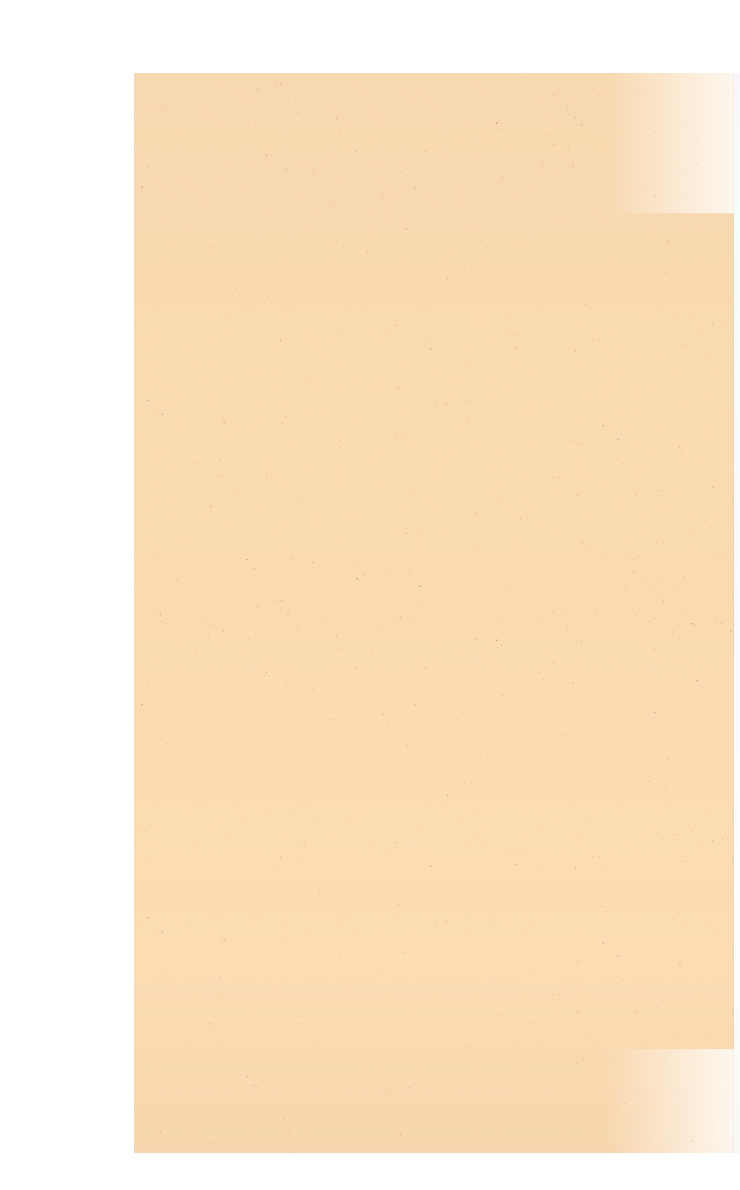
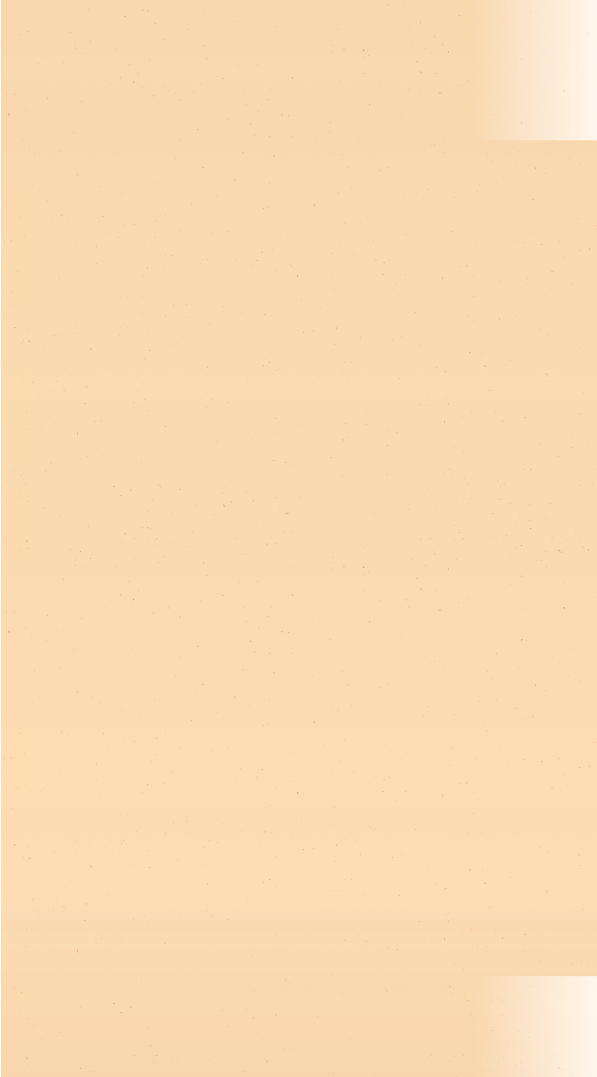
fortschr5itt grafisches anzeigen des spielbretts

Changed region(s): [[0.0, 0.0, 0.995, 1.0], [0.8744, 0.1226, 1.0, 0.9192]]

diff --git a/client/src/main/resources/style.css b/client/src/main/resources/style.css
@@ -90,3 +90,11 @@
     -fx-background-size: 720 480;
     -fx-border-width:5;
 }
+
+
+#mainland {
+    -fx-background-image: url("back.png");
+    -fx-background-repeat: stretch;
+    -fx-background-size: 458 804;
+    -fx-background-position: center center;
+}

diff --git a/client/src/main/java/board/view/BoardViewImplFx.java b/client/src/main/java/board/view/BoardViewImplFx.java
@@ -35,9 +35,17 @@ public class BoardViewImplFx {
   public void addHouse(int i){
     Image image = new Image("haus.png");
     ImageView house = new ImageView();
-    house.setFitHeight(50);
-    house.setFitWidth(50);
+    house.setFitHeight(120);
+    house.setFitWidth(250);
     house.setImage(image);
     houses.add(house, 0, i );
+  }
+
+  public void setBoardPresenter(BoardPresenter boardPresenter) {
+    this.boardPresenter = boardPresenter;
+  }
+
+  public void full(){
+    boardPresenter.fullscreen();
   }
 }

diff --git a/client/src/main/java/main/SceneController.java b/client/src/main/java/main/SceneController.java
@@ -101,6 +101,7 @@ public class SceneController {
         boardRoot = loader.load();
         BoardViewImplFx view = loader.getController();
         boardPresenter= new BoardPresenter(view, this, getLobbyPresenter().getCLTLobby());
+        view.setBoardPresenter(boardPresenter);
         Scene boardScene = new Scene(boardRoot);
         this.stage.setScene(boardScene); // nachher mit fxml wieder ändern
       } catch (IOException e) {

diff --git a/client/src/main/java/board/presenter/BoardPresenter.java b/client/src/main/java/board/presenter/BoardPresenter.java
@@ -24,7 +24,7 @@ public class BoardPresenter {
         System.out.println(user.getUsername());
         render++;
       }
-      sc.toggleFullscreen();
+
   }
 
   public BoardViewImplFx getView() {
@@ -37,6 +37,10 @@ public class BoardPresenter {
 
   public void updateBoard(gameInfoEvent e){
 
+  }
+
+  public void fullscreen(){
+    sc.toggleFullscreen();
   }
 
 }
